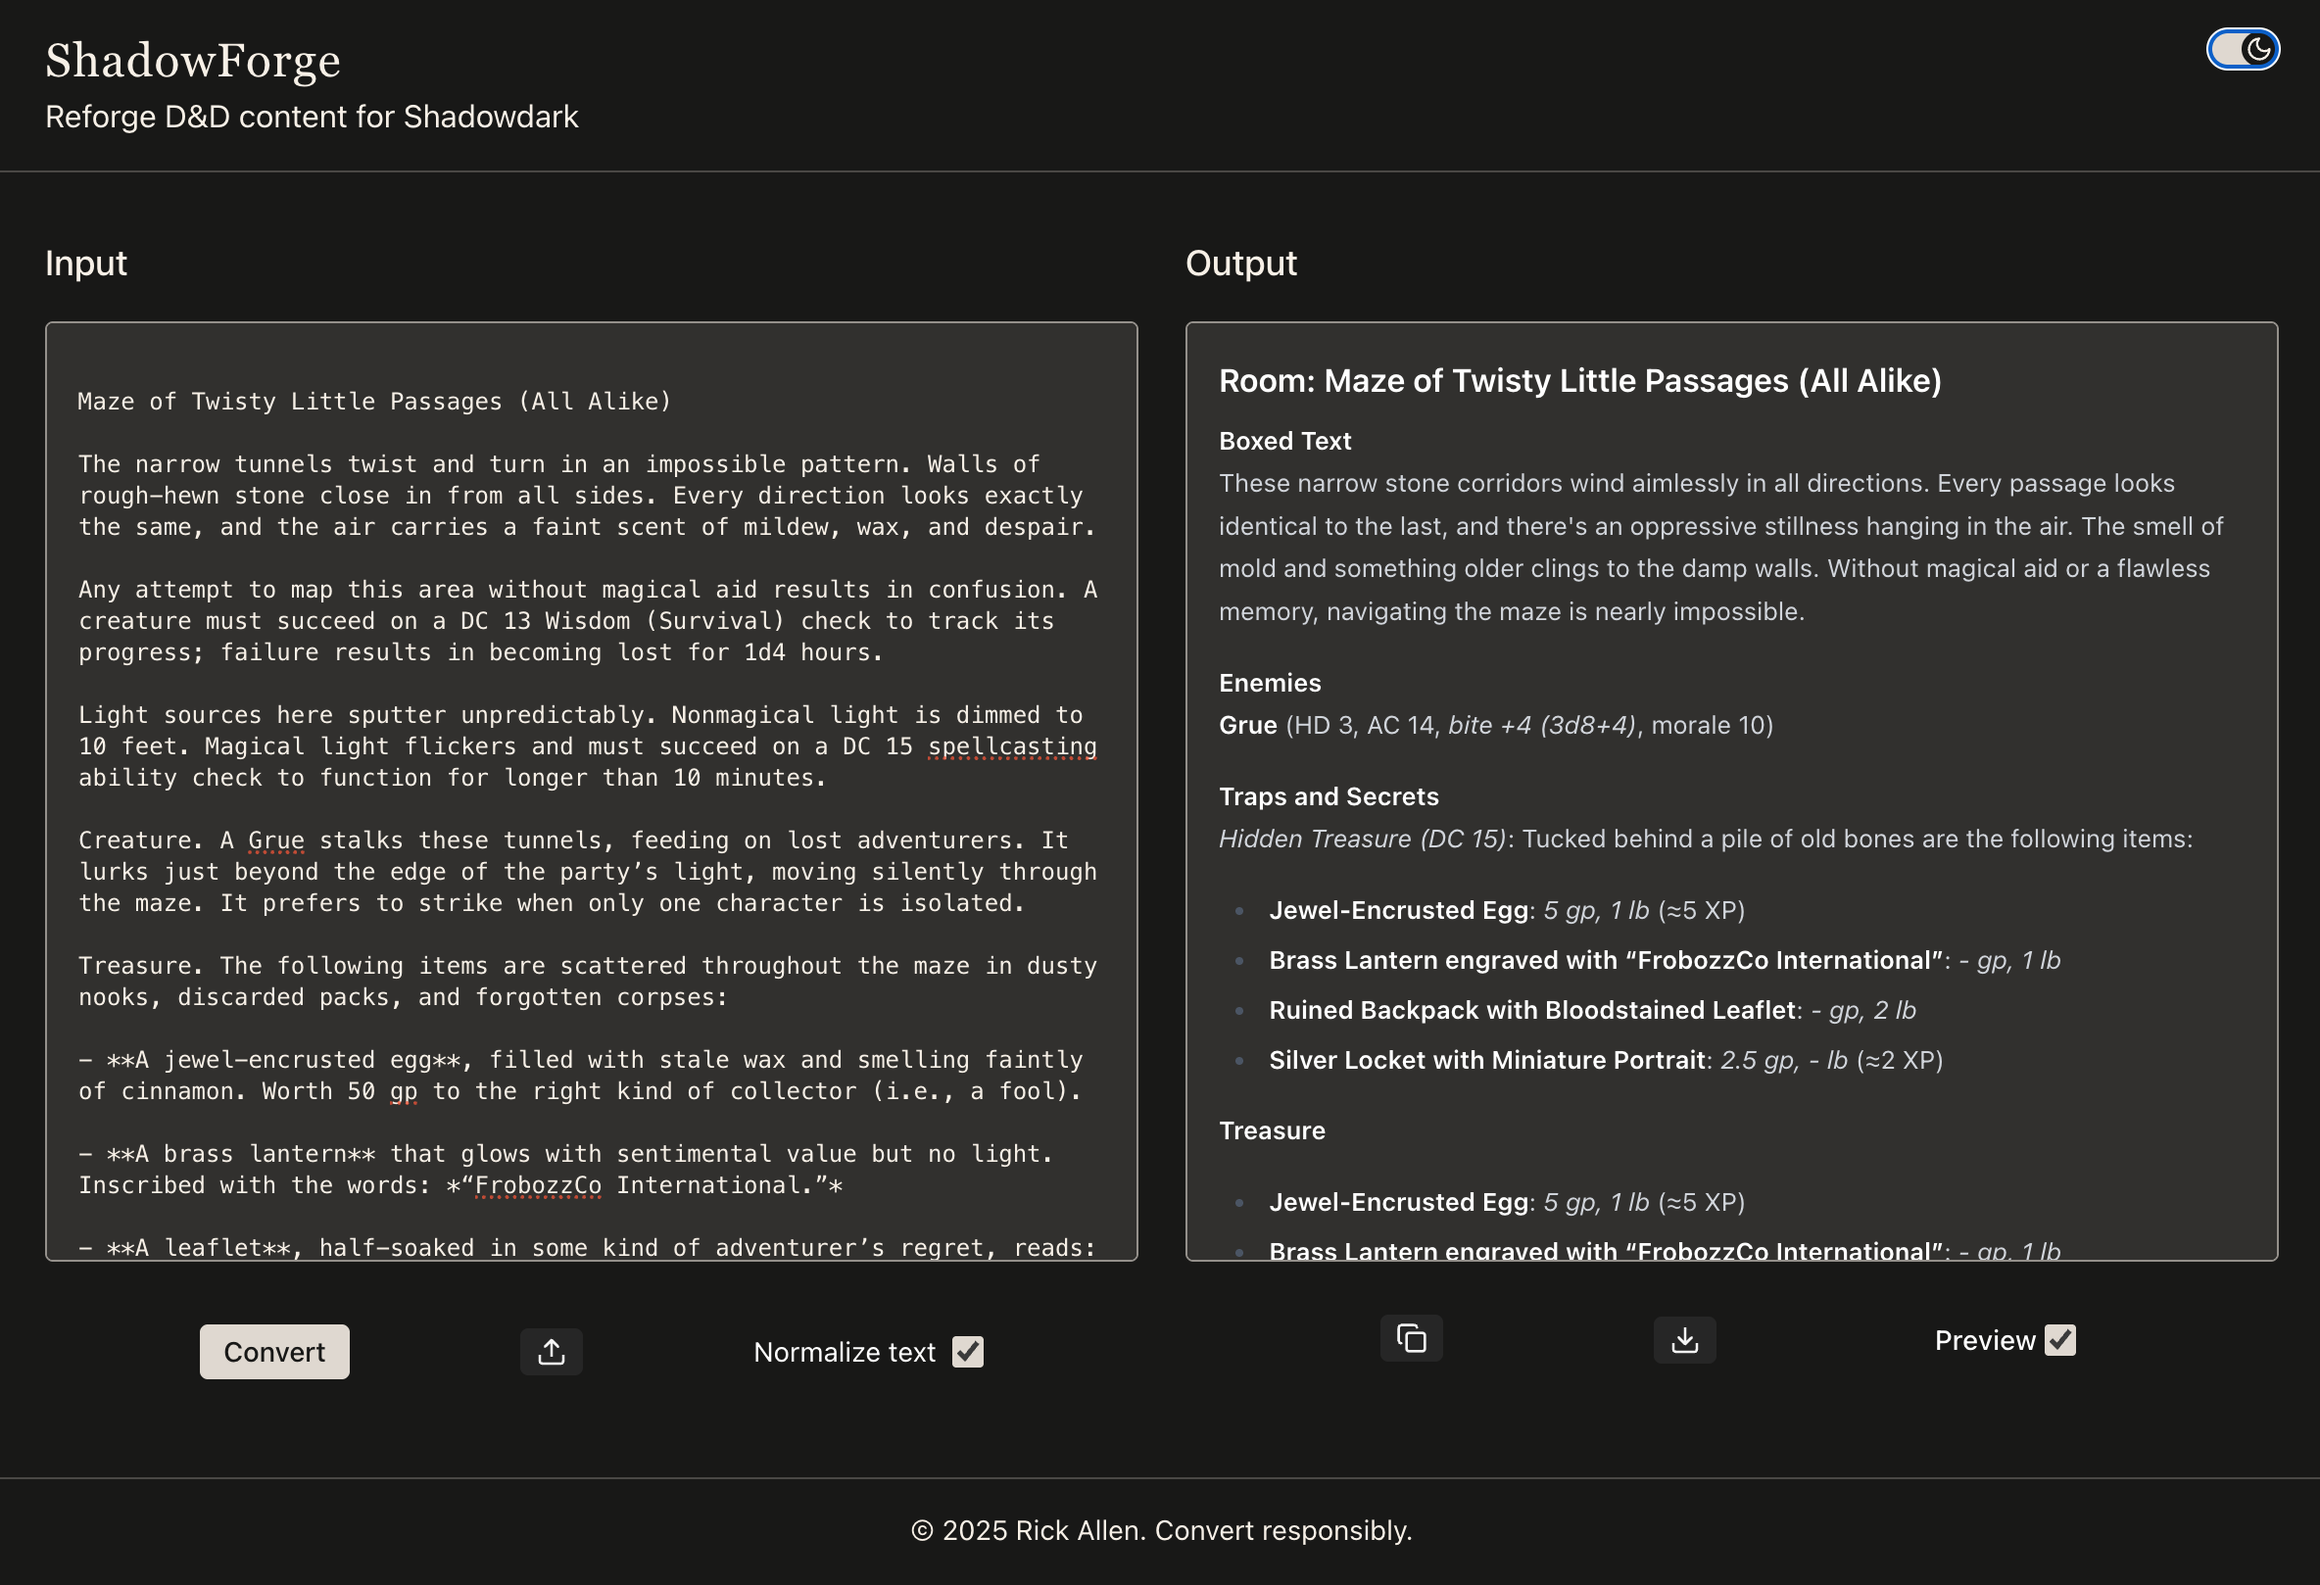
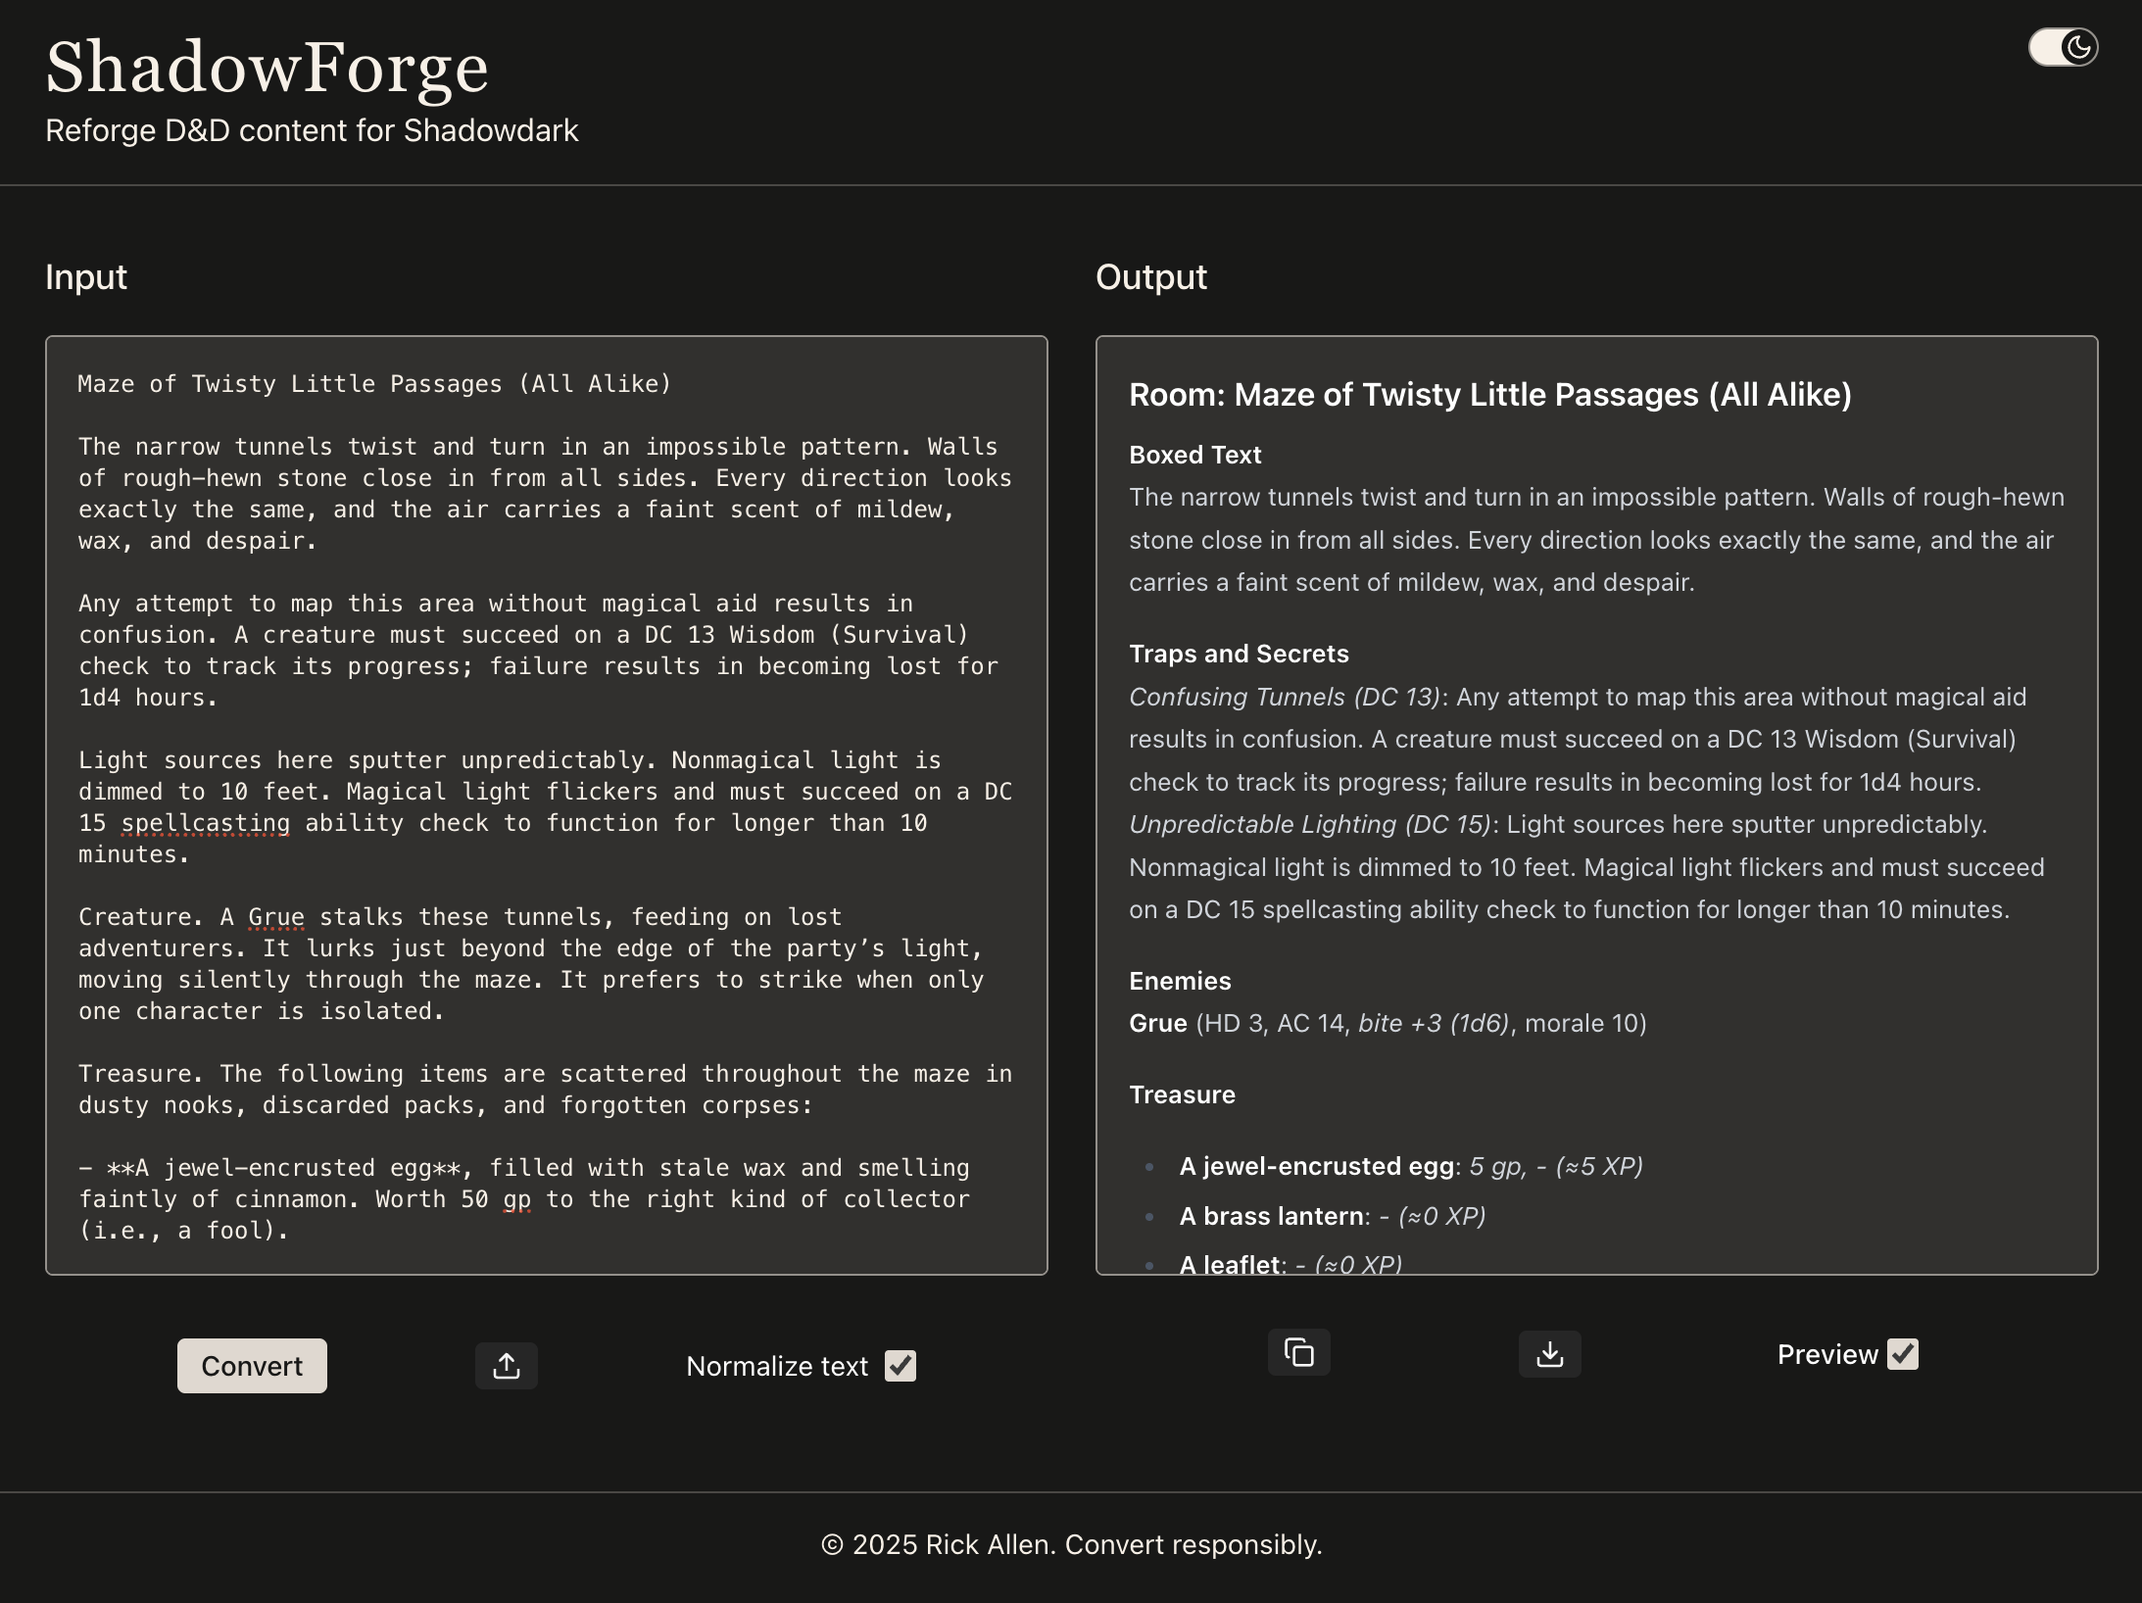
updated screenshot

diff --git a/components/ShadowForgeLayout.tsx b/components/ShadowForgeLayout.tsx
@@ -65,7 +65,7 @@ export default function ShadowForgeLayout({
         }}
       >
         <div>
-          <h1 className="font-serif text-2xl tracking-wide">ShadowForge</h1>
+          <h1 className="font-serif text-4xl tracking-wide">ShadowForge</h1>
           <h2>Reforge D&D content for Shadowdark</h2>
         </div>
         <ToggleTheme toggleTheme={toggleTheme} theme={theme} />
